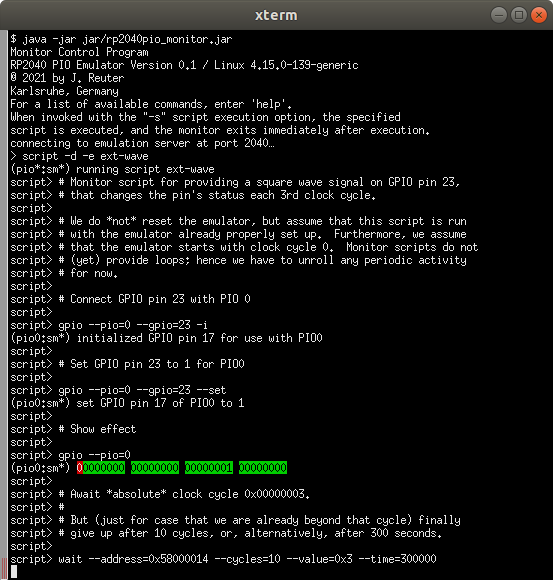
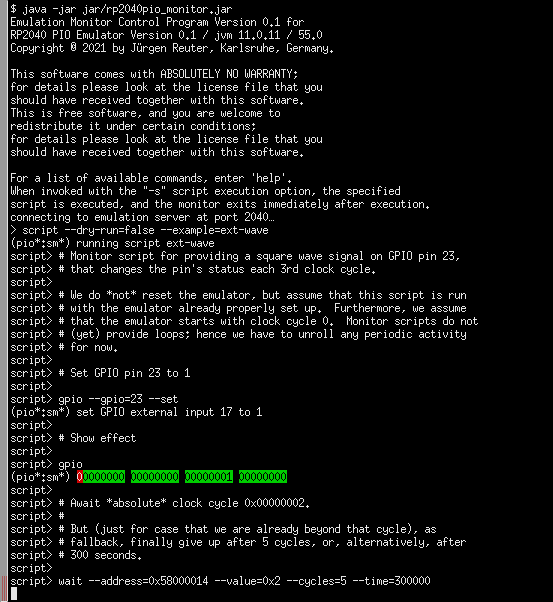
Update Website, Part 3
* Update missing screenshots
  for Code Observer.
* Add documentation of
  display prefix for forced
  and EXEC'd instructions.
* Update screenshots and
  code samples in section on
  interfacing with external
  data to reflect latest syntax
  of Monitor commands.

diff --git a/io.rst b/io.rst
@@ -59,22 +59,18 @@ initializing GPIO pin 23 for use with PIO 0. ::
   # (yet) provide loops; hence we have to unroll any periodic activity
   # for now.
 
-  # Connect GPIO pin 23 with PIO 0
-
-  gpio --pio=0 --gpio=23 --init
-
 Next, we initialize our GPIO pin, here for example with the pin's
 value being set to a logical 1 state. ::
 
-  # Set GPIO pin 23 to 1 for PIO0
+  # Set GPIO pin 23 to 1
 
-  gpio --pio=0 --gpio=23 --set
+  gpio --gpio=23 --set
 
 For double-checking, we look at the result of our previous command. ::
 
   # Show effect
 
-  gpio --pio=0
+  gpio
 
 Next, we wait until clock cycle 0x00000002 is reached (assuming that
 the emulator has just been reset and starts counting with clock cycle
@@ -140,16 +136,16 @@ Now, we are synchronized with stable phase 0 after clock cycle
 continue).  Since we have previously set GPIO pin 23 to 1, we now
 reset it back to 0. ::
 
-  # Now, clear GPIO pin 23 to 1 for PIO0
+  # Now, clear GPIO pin 23 to 1
 
-  gpio --pio=0 --gpio=23 --clear
+  gpio --gpio=23 --clear
 
 For double-checking, we again look at the result of our previous
 command. ::
 
   # Show effect
 
-  gpio --pio=0
+  gpio
 
 Now, that we have synchronized with phase 0 after clock cycle
 0x00000002 (assuming that no timeout occurred on the last wait), there
@@ -193,8 +189,8 @@ double-checking. ::
 
   # GPIO pin 23 := 1, and show effect.
 
-  gpio --pio=0 --gpio=23 --set
-  gpio --pio=0
+  gpio --gpio=23 --set
+  gpio
 
 And we wait for another 3 clock cycles (plus stable phase 0), toggle
 the bit again and show it again for double-checking. ::
@@ -206,8 +202,8 @@ the bit again and show it again for double-checking. ::
 
   # GPIO pin 23 := 0, and show effect.
 
-  gpio --pio=0 --gpio=23 --clear
-  gpio --pio=0
+  gpio --gpio=23 --clear
+  gpio
 
 And the same some more times. ::
 
@@ -218,19 +214,19 @@ And the same some more times. ::
 
   # GPIO pin 23 := 1, and show effect.
 
-  gpio --pio=0 --gpio=23 --set
-  gpio --pio=0
+  gpio --gpio=23 --set
+  gpio
 
   # And so on, for some more cycles...
 
   wait --address=0x58000014 --mask=0 --value=1 --cycles=3 --time=0
   wait --address=0x5800000c --value=1 --cycles=0 --time=0
-  gpio --pio=0 --gpio=23 --clear
-  gpio --pio=0
+  gpio --gpio=23 --clear
+  gpio
   wait --address=0x58000014 --mask=0 --value=1 --cycles=3 --time=0
   wait --address=0x5800000c --value=1 --cycles=0 --time=0
-  gpio --pio=0 --gpio=23 --set
-  gpio --pio=0
+  gpio --gpio=23 --set
+  gpio
 
 We can also make use of the monitor commands' abbreviated syntax. ::
 
@@ -241,12 +237,12 @@ We can also make use of the monitor commands' abbreviated syntax. ::
 
   wa -a 0x58000014 -m 0 -v 1 -c 3
   wa -a 0x5800000c -v 1
-  g -p 0 -g 23 -c
-  g -p 0
+  g -g 23 -c
+  g
   wa -a 0x58000014 -m 0 -v 1 -c 3
   wa -a 0x5800000c -v 1
-  g -p 0 -g 23 -s
-  g -p 0
+  g -g 23 -s
+  g
 
 And the same some more times, this time without double-checking, since
 we are now confident that our approach works fine. ::
@@ -255,10 +251,10 @@ we are now confident that our approach works fine. ::
 
   wa -a 0x58000014 -m 0 -v 1 -c 3
   wa -a 0x5800000c -v 1
-  g -p 0 -g 23 -c
+  g -g 23 -c
   wa -a 0x58000014 -m 0 -v 1 -c 3
   wa -a 0x5800000c -v 1
-  g -p 0 -g 23 -s
+  g -g 23 -s
 
 Finally, at some point, we stop this process and quit the script. ::
 
@@ -281,13 +277,14 @@ Now let us perform another example monitor session to see how to apply
 our external signal while debugging a PIO program.
 
 First, start a monitor session.  Execute the example squarewave PIO
-pogram monitor script with the command ``script -d --example
-squarewave`` (or, abbreviated, ``sc -d -e squarewave``).  The script
-will start with resetting the emulator such that we are in a
-well-defined state now, load the squarewave example PIO program into
-PIO0, and set up SM0 of PIO0 for execution of the program.  The
-initial ``reset`` in the script will also reset the clock cycle count
-to start with value 0 upon execution of the next instruction.
+pogram monitor script with the command
+``script --dry-run=false --example squarewave`` (or, abbreviated,
+``sc -d -e squarewave``).  The script will start with resetting the
+emulator such that we are in a well-defined state now, load the
+squarewave example PIO program into PIO0, and set up SM0 of PIO0 for
+execution of the program.  The initial ``reset`` in the script will
+also reset the clock cycle count to start with value 0 upon execution
+of the next instruction.
 
 .. figure:: images/io-monitor-load-mon.png
    :scale: 80%
@@ -315,7 +312,7 @@ execute our ``ext-wave`` monitor script with the monitor command
 ``script --dry-run=false --example=ext-wave``.  The script will
 provide the external signal on GPIO 23.  After startup, the script
 stops at the first ``wait`` command in expectation for the PIO program
-to arrive at clock cycle 3.
+to arrive at clock cycle 2.
 
 .. figure:: images/io-monitor-external.png
    :scale: 80%

diff --git a/code-observer.rst b/code-observer.rst
@@ -75,11 +75,14 @@ Forced & EXEC'd Instructions
 Pending forced and EXEC'd instructions are shown in an additional
 separate line atop the scrollable list of memory instructions.  This
 line is empty unless either a forced or an EXEC'd instruction is
-awaiting execution.  If both, a forced and an EXEC'd instruction are
-awaiting execution, the forced instruction is shown, since the state
-machine will execute it first.  Only after that, the state machine
-will execute the EXEC'd instruction which will be displayed as soon as
-the state machines starts executing the forced instruction.
+awaiting execution.  To distinguish them, a forced instruction is
+displayed with prefix ``[f]``, while an EXEC'd instruction is
+displayed with prefix ``[x]``.  If both, a forced and an EXEC'd
+instruction are awaiting execution, the forced instruction is shown,
+since the state machine will execute it first.  Only after that, the
+state machine will execute the EXEC'd instruction which will be
+displayed as soon as the state machines starts executing the forced
+instruction.
 
 .. figure:: images/code-observer-forced.png
    :scale: 80%
